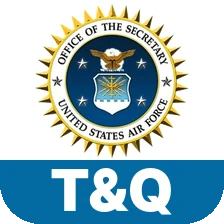
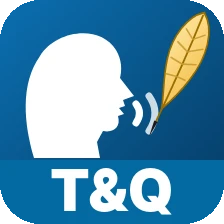
Hub asks for a password only when needed; Tongue and Quill card picture
The sign-in box no longer opens by itself when the hub loads; the header's
Sign in link opens it, and locked tools still ask for their own password.
AFH 33-337 gets a talking head and a feather quill.

Claude-Session: https://claude.ai/code/session_01XmGzYsRCLsrXMkxphjLpz1

diff --git a/index.html b/index.html
@@ -252,7 +252,9 @@ document.getElementById("siSkip").addEventListener("click", () => { SI.skip(); d
 dlg.addEventListener("cancel", () => { if (!SI.role()) SI.skip(); render(); });   // Esc counts as Skip
 
 render();
-SI.resume().then(role => { if (role) render(); else openSignIn(); });
+// No password box on open (Captain Russell, 22 Nov 2026): ask only when it is needed. Locked tools ask
+// for their own password when opened; the Sign in link in the header opens this box for cadre.
+SI.resume().then(role => { if (role) render(); });
 </script>
 </body>
 </html>

diff --git a/tools/doc-card-art.py b/tools/doc-card-art.py
@@ -22,6 +22,8 @@ Kinds:
         every DAF publication), full size on the tile.
   form  : a drawn form sheet, for forms we only link to on e-Publishing (the
         cloud session can't download them to crop).
+  full  (path): a drawn 224 px picture filling the tile (render the SVG in
+        tools/art-src/ to a PNG of the same name with a browser after editing it).
   image (path, scale): any picture, e.g. the AFGSC shield for the 90th Missile
         Wing video, or the Det 250 patch for the locked detachment plans.
 Each may add a label: the band text at the bottom.
@@ -67,7 +69,9 @@ ART = {
     'ext-dafi90-6001':   ('external', 'seal', 'secaf', '6001'),
     'ext-dafi51-508':    ('external', 'seal', 'secaf', '51-508'),
     'ext-dafi36-2614':   ('external', 'seal', 'secaf', '2614'),
-    'ext-afh33-337':     ('external', 'seal', 'secaf', 'T&Q'),
+    # The Tongue and Quill: a talking head and a feather quill (Captain Russell, 22 Nov 2026),
+    # drawn in tools/art-src/tongue-quill.svg and saved as the .png beside it.
+    'ext-afh33-337':     ('external', 'full', 'tools/art-src/tongue-quill.png', 'T&Q'),
     'ext-daf1206':       ('external', 'form', None, '1206'),
     'ext-af724':         ('external', 'form', None, '724'),
     'ext-daf174':        ('external', 'form', None, '174'),
@@ -144,6 +148,9 @@ def make(key, sec, kind, args, label, tmp, cache):
         else:
             seal = Image.open(OFF + 'coc-secaf.webp').convert('RGBA')
         paste_center(t, seal, (6, 4, S - 6, area[3] - 2))
+    elif kind == 'full':
+        # a drawn 224 px picture that fills the tile; keep its subject above the band
+        t = Image.open(args).convert('RGBA').resize((S, S), Image.LANCZOS)
     elif kind == 'image':
         path, scale = args
         t = tile_bg((24, 26, 34))

diff --git a/CLAUDE.md b/CLAUDE.md
@@ -14,7 +14,7 @@
 ## Repo layout
 | Path | What |
 |---|---|
-| `index.html` | Hub page. Its bar is one link, `<a class="d250-bar d250-bar-hub">` (to the Portfolio), with a "Portfolio" back pill at the top left (to https://captainrussell.github.io/Portfolio/, Captain Russell's portfolio, added Nov 2026) and the Storm HQ home link; tool pages keep the single-link bar. The cards are listed in `data/hub.js` (`D250_HUB.tools`, plain JSON; fields: href, name, tone, icon, section `cadets`, `instructors` or `admin` (`evaluators` still renders but is unused), locked, blurb, ext, art, `role:"cadre"` (cadre only), and `hidden:true` to hide a card without deleting it). Hub sections: Cadet tools, Instructor tools (Spin the Wheel, then the Class Activities card), then Cadre only (the Admin card, shown only to cadre) at the very bottom (Captain Russell, 22 Nov 2026). The hub header is one slim row, the patch and "Storm HQ" with the sign-in status at the right (Captain Russell, 22 Nov 2026: every card on one full-screen desktop, 4 cards per row, blurbs clamped to two lines). The Evaluator tools section was replaced on 22 Nov 2026 (Captain Russell) by one Evaluation Tools card under Cadet tools (`evaluation/`). `locked` is the pill text: "Flight Staff password" (Flight Staff Evaluation); `true` shows "Password". Peer Feedback, Documents and Policy and the ODT Tool show no pill on the hub (ODT since 22 Nov 2026; it still asks for the password when opened) (Captain Russell, Nov 2026); the Documents page itself labels its locked cards "Cadet password". Each card's icon is a picture drawn from the tool's own art, `shared/card-art/<tool folder>.webp` (listed in `ART`; Captain Russell, Nov 2026: icons must look like the tool, like the patch and Steam icon on the Portfolio. PFRA Calculator = the tool's own 2 mile run pictogram (`pfra/src/icons.js`) in white on a red tile with "PFRA" under it (Captain Russell, 22 Nov 2026; it replaced the calculator), Ribbon rack = a real rack from the tool, Documents = The Storm Standard cover, Spin the Wheel = the `D250Wheel`, Practicum = the IG sprite, ODT Tool = a white van on a road heading to a red map pin (Captain Russell, 17 Nov 2026), cadet photos from `org-chart/photos`). 56 px tiles saved at 224 px, rounded 14 px, transparent corners; the SVG `icon` is the fallback. Each tool's header icon (`<span class="d250-head-icon art">`) shows the same picture, so card and tool match (Captain Russell, Nov 2026). Cards show only icon, name and blurb (no tags, no "Open" arrow, no section subtitles). Sign-in (Captain Russell, 15 Nov 2026): on opening the hub a dialog asks for the cadet or cadre password (one box, either works) or Skip for now; `shared/signin.js` (`D250SignIn`) checks the password by opening files it already locks (cadet: `documents/restricted/vault.json` check; cadre: `admin/vault.json`), so no password is in the repo, and seeds the session keys the locked tools already read (cadet: `d250-docs-pass`; cadre: `d250-admin-pass`, `d250-cadre-pass`, plus `locks.docs`/`locks.fse` from the admin vault as `d250-docs-pass`/`d250-gmc-pass`). Role in sessionStorage `d250-role` (`cadet`, `cadre`, `skip`); "Keep me signed in" (ticked by default, Captain Russell 15 Nov 2026) keeps the password in localStorage `d250-signin-v1`. "Signed in as ... / Sign out" sits at the right of the header row; lock pills turn into a green open padlock with no text once open (`OPENS` in `index.html`; Captain Russell, 22 Nov 2026: no "Unlocked" text on the hub). Cards with `role:"cadre"` show only to cadre; the Admin card (section `admin`, "Cadre only", listed last) replaced the Cadre Dashboard card. Outside links use `ext:true` (new tab) and `art:` to name their card art: the Cadet SharePoint card (Cadet tools, after Documents, Nov 2026) links to the ISU AFROTC SharePoint home page and uses `shared/card-art/sharepoint.webp`, the Det 250 patch on a teal tile (Captain Russell). |
+| `index.html` | Hub page. Its bar is one link, `<a class="d250-bar d250-bar-hub">` (to the Portfolio), with a "Portfolio" back pill at the top left (to https://captainrussell.github.io/Portfolio/, Captain Russell's portfolio, added Nov 2026) and the Storm HQ home link; tool pages keep the single-link bar. The cards are listed in `data/hub.js` (`D250_HUB.tools`, plain JSON; fields: href, name, tone, icon, section `cadets`, `instructors` or `admin` (`evaluators` still renders but is unused), locked, blurb, ext, art, `role:"cadre"` (cadre only), and `hidden:true` to hide a card without deleting it). Hub sections: Cadet tools, Instructor tools (Spin the Wheel, then the Class Activities card), then Cadre only (the Admin card, shown only to cadre) at the very bottom (Captain Russell, 22 Nov 2026). The hub header is one slim row, the patch and "Storm HQ" with the sign-in status at the right (Captain Russell, 22 Nov 2026: every card on one full-screen desktop, 4 cards per row, blurbs clamped to two lines). The Evaluator tools section was replaced on 22 Nov 2026 (Captain Russell) by one Evaluation Tools card under Cadet tools (`evaluation/`). `locked` is the pill text: "Flight Staff password" (Flight Staff Evaluation); `true` shows "Password". Peer Feedback, Documents and Policy and the ODT Tool show no pill on the hub (ODT since 22 Nov 2026; it still asks for the password when opened) (Captain Russell, Nov 2026); the Documents page itself labels its locked cards "Cadet password". Each card's icon is a picture drawn from the tool's own art, `shared/card-art/<tool folder>.webp` (listed in `ART`; Captain Russell, Nov 2026: icons must look like the tool, like the patch and Steam icon on the Portfolio. PFRA Calculator = the tool's own 2 mile run pictogram (`pfra/src/icons.js`) in white on a red tile with "PFRA" under it (Captain Russell, 22 Nov 2026; it replaced the calculator), Ribbon rack = a real rack from the tool, Documents = The Storm Standard cover, Spin the Wheel = the `D250Wheel`, Practicum = the IG sprite, ODT Tool = a white van on a road heading to a red map pin (Captain Russell, 17 Nov 2026), cadet photos from `org-chart/photos`). 56 px tiles saved at 224 px, rounded 14 px, transparent corners; the SVG `icon` is the fallback. Each tool's header icon (`<span class="d250-head-icon art">`) shows the same picture, so card and tool match (Captain Russell, Nov 2026). Cards show only icon, name and blurb (no tags, no "Open" arrow, no section subtitles). Sign-in (Captain Russell, 15 Nov 2026): the Sign in link at the right of the header opens a dialog that asks for the cadet or cadre password (one box, either works) or Skip for now (since 22 Nov 2026 it no longer opens by itself when the hub loads; Captain Russell: ask only when needed, and the locked tools ask for their own password); `shared/signin.js` (`D250SignIn`) checks the password by opening files it already locks (cadet: `documents/restricted/vault.json` check; cadre: `admin/vault.json`), so no password is in the repo, and seeds the session keys the locked tools already read (cadet: `d250-docs-pass`; cadre: `d250-admin-pass`, `d250-cadre-pass`, plus `locks.docs`/`locks.fse` from the admin vault as `d250-docs-pass`/`d250-gmc-pass`). Role in sessionStorage `d250-role` (`cadet`, `cadre`, `skip`); "Keep me signed in" (ticked by default, Captain Russell 15 Nov 2026) keeps the password in localStorage `d250-signin-v1`. "Signed in as ... / Sign out" sits at the right of the header row; lock pills turn into a green open padlock with no text once open (`OPENS` in `index.html`; Captain Russell, 22 Nov 2026: no "Unlocked" text on the hub). Cards with `role:"cadre"` show only to cadre; the Admin card (section `admin`, "Cadre only", listed last) replaced the Cadre Dashboard card. Outside links use `ext:true` (new tab) and `art:` to name their card art: the Cadet SharePoint card (Cadet tools, after Documents, Nov 2026) links to the ISU AFROTC SharePoint home page and uses `shared/card-art/sharepoint.webp`, the Det 250 patch on a teal tile (Captain Russell). |
 | `admin-hub/` | Admin (Nov 2026, Captain Russell): the one cadre card on the hub. Since 22 Nov 2026 it is a how-to guide (Captain Russell: after his PCS the cadre point of contact will direct changes through Claude, not through the editor; no Results cards since 22 Nov 2026, they are on Evaluation Tools): "Change Storm HQ with an AI assistant" (tool-neutral since 22 Nov 2026, Captain Russell: Claude is only the example, other LLM tools work too; set up once, ask, review and merge, undo), "What changes, and what to ask" (one fold per tool with how often it changes, Each semester / Each ODT / As needed / Rarely, and ready prompts with Copy buttons, `JOBS`; `[brackets]` are blanks), Good to know (`TIPS`), Before the handoff (`HANDOFF`), Links (Open an AI assistant, GitHub source, Pull requests, Apps Scripts, ADMIN-GUIDE.md; owner/repo read from the page address) and one small backup link to the old Cadre Admin editor (`admin/`, kept as a backup by Captain Russell's choice). Keep it in step with `ADMIN-GUIDE.md` and the "Semester jobs" section below. Asks for the cadre password itself unless the tab is signed in as cadre. Card art `shared/card-art/admin-hub.webp`, also its header icon. The Cadre Dashboard and Cadre Admin bars say "Admin" and link back here. |
 | `activities/` | Class Activities (Captain Russell, 22 Nov 2026): one hub card under Instructor tools, a hub-style page with three cards: Make the Call, Battle Buddy Recon and Practicum Adventure (their hub entries are kept with `hidden:true`; Spin the Wheel keeps its own hub card). Card art `shared/card-art/activities.webp` (the three tool tiles on a teal tile). The three tools' bars say "Class Activities" and link back here. |
 | `evaluation/` | Evaluation Tools (Captain Russell, 22 Nov 2026): one hub card under Cadet tools, a hub-style page with three cards: Peer Feedback, Flight Staff Evaluation ("Flight Staff password" pill) and Cadre Dashboard ("Cadre password" pill); pills say Unlocked from the hub sign-in. Card art `shared/card-art/evaluation.webp` (the three tool tiles on a purple tile). The Peer Feedback and Cadre Dashboard bars say "Evaluation Tools" and link back here (the encrypted Flight Staff Evaluation keeps "All tools"). |
@@ -39,7 +39,7 @@
 | `shared/cadet-groups.js` | Preset roster groups (AS 100's, AS 200's, AS 250's, AS 500's, AS 300's, AS 400's, Graybeards) and `D250Cadets` ("last, first" -> photo key, class), built in the browser from `data/roster.js` (load `../data/roster.js` first). No build step. |
 | `shared/doc-refs.js` | `D250Refs`: the one way a tool cites a regulation, form or publication (Nov 2026, Captain Russell: Documents and Policy is the single source of truth). Load `../data/documents.js`, `../documents/library.js`, then `../shared/doc-refs.js`, then `D250Refs.mount(el, {from:"<tool folder>", items:[{id, note, page}]})` renders hub-style reference cards. Hosted PDFs open in `documents/view/?id=<id>&from=<tool>&page=<n>`, whose back button returns to the exact spot in the tool (saved on click in sessionStorage `d250-docs-back-<tool>`); e-Publishing items open in a new tab. `D250Refs.href()` / `D250Refs.view()` give inline links (the Org Chart's drawer citations use them, OPLAN citations ask for the password). Used by the PFRA Calculator, Ribbon Rack and Org Chart; add new tools to `FROM` in `documents/view/index.html`. Never copy a regulation PDF into a tool folder; add it to `library.js`. |
 | `shared/class-roster.js` | `D250Class.load()/save()`: one saved class roster (`d250-class-roster-v1`) and class name (`d250-class-name-v1`, `D250Class.name()`) shared by the instructor tools. Practicum Adventure uses the class name as its course unless its Game settings set one. |
-| `documents/` | Documents and Policy (cadet tool, Nov 2026): one-stop list of every regulation, notice and form cited by the Storm HQ tools, The Storm Standard, the OPLAN and the Policy Packet (sections and cards in `data/documents.js` (`D250_DOCS_DATA`), exposed as `D250_DOC_SECTIONS` and `D250_DOCS` by `documents/library.js`, which keeps the card icons; every page that loads `library.js` loads `data/documents.js` first; every document is a hub-style one-click card. Categories: Detachment plans, Weekly OPORDs (both locked), AFROTC, Fitness (PFRA Calculator, AF Forms 4446/4446A, PFRA scoring charts, HAMR tally, HAMR audio (`"download":true` makes a card a download), the AFGSC PFRA verbal instructions video and DAFMAN 36-2905; its AFROTC Sup sits under AFROTC publications, Captain Russell 22 Nov 2026) and External links (e-Publishing pubs and forms, new tab), per Captain Russell Nov 2026. Every card has a picture (`"art":"art/<id>.webp"`, files in `documents/art/`, made by `python3 tools/doc-card-art.py`, whose `ART` table lists each one; Captain Russell, 22 Nov 2026: pictures must read at the 36 px row size, zoomed in like The Storm Standard cover): a short label band at the bottom in the section's color (VOL 1, 2903, 4446, AFH 1, OPLAN, ...) under the AFROTC seal (AFROTC publications), the Secretary of the Air Force seal (DAF publications), a zoomed crop of the form or chart itself (4446, 4446A, HAMR tally; the scoring charts have no band), a drawn form sheet (e-Publishing forms, which the cloud session can't download), the AFGSC shield (90th MW verbal instructions video), a waveform (HAMR audio) or the Det 250 patch (the locked plans and the Weekly OPORDs row, `PLAN_ART` in `documents/index.html`). `D250Refs` shows art at 56 px and resolves it under `documents/`. The SVG `icon` is the fallback when a card has no art (`icon` key into `D250_DOC_ICONS` in `library.js`, e.g. uniform for dress and appearance, medal for the award nomination; Captain Russell, Nov 2026), and links to Storm HQ tools (`tool:true`, e.g. the PFRA Calculator) get a gold card with a "Storm HQ tool" pill so they stand apart from documents. Every internal PDF (`src`) opens in `documents/view/?id=<id>` with the back button to its category; `dl` sets a different download file (the fillable 4446/4446A; the viewer shows the `-flat` copy). AFROTCI 36-2011 V1 and V2 are hosted in `documents/references/`, V3, the AFROTC supplements and the fitness files are shared from `pfra/references/` and `ribbon-rack/references/`. NOTACCs and the law section were removed at Captain Russell's request, Nov 2026). Layout (redesigned 22 Nov 2026, Captain Russell: find any document without scrolling): one slim top row with The Storm Standard ("Read") and the unlock box, then one column per category side by side (4 across from 1100 px, 2 below, 1 on phones), each document a short row (icon, number, title; the description is the row tooltip; Storm HQ tools get a gold row with a "Tool" pill, outside links an arrow, downloads a download icon); no search bar. On phones the categories start folded and open on tap (state in `d250-docs-sections-v1`); on desktop they are always open. `#<section>` links flash that column. The Weekly OPORDs have their own page, `documents/opords/` (a section with `"page"` in `data/documents.js` shows on the main page as one row under the section before it; old `documents/#opords` links redirect there; the viewer's back button for an OPORD returns there). Shared styles are in `documents/docs.css`; `documents/vault.js` (`D250DocVault.mount(el, {root, what, onChange})`) is the one unlock box on both pages (it, the document viewer and the ODT Tool also take the admin password: `D250SignIn.docsPass` in `shared/signin.js` turns it into the cadet password saved as `locks.docs` in `admin/vault.json`; Captain Russell, 22 Nov 2026) (unlocks every protected row or tile with a staggered animation; clicking a locked one makes the box glow) Locked and unlocked must look clearly different (Captain Russell, 22 Nov 2026): a solid red chip with a closed padlock, then a solid green chip with the shackle raised open (`.lk`, `.i-lk`/`.i-un`); the hub and Evaluation Tools lock pills use the same red/green and padlock shapes. The Storm Standard online view (`documents/storm-standard/index.html`, hand written, Nov 2026) is a highlights view, not the full text (Captain Russell: show the important sections, mostly with visuals): chapters in the side nav, and ONE topic on screen at a time with dots, previous/next and arrow keys (`#<chapter>/<topic>` links, `CH` array in the page; old `#chapter-N` and `#p-N` links still resolve). Each topic links to its page in the PDF. Graphics (covers, patches, cadet and military rank charts, AFROTC uniforms, the Prop and Wings monument, the aircraft and space inventory, AFSC badges) are pulled from the PDF by `python3 tools/storm-standard-art.py documents/storm-standard/The_Storm_Standard.pdf documents/storm-standard/art` into `art/*.webp` plus `art/data.js` (inventory, commands, badges). The PDF's own seals and badges are too low resolution, so official artwork lives in `art/official/` (never written by the script): service and department seals, the President, SecWar, SecAF, CSAF and CSO seals plus rank insignia for the chain of command, combatant command seals, MAJCOM shields, Space Force field command emblems and the clean Prop and Wings (mostly supplied by Captain Russell, Nov 2026), and the CTA, Arnold Air Society and Pershing Rifles badges cut from DAFI 36-2903 AFROTC Sup Figure 9.1. The Prop and Wings plaque was removed at his request. Also removed at his request (Nov 2026): the date and name heavy topics (Pioneers from the Storm, History of AFROTC, Air and Space Force milestones) and the blurry full insignia chart; MAJCOM cards use the one-line missions in `MAJCOM_SHORT`, not the PDF's full statements. Edition and authority sits on the closing slide, after the back cover; the header icon is the cover art (`art/official/cover-icon.webp`). Topics without PDF art use Captain Russell's photos and symbols in `art/official/` (Armory, open ranks, salute, Hap Arnold wings, Air Force Symbol, combatant command map) or drawn icons and diagrams in the page (`ICON`/`icard`, `DIAG` customs diagrams, the order-of-precedence pyramid). Sharp aircraft photos supplied by Captain Russell (Nov 2026) are in `art/official/aircraft/` under the PDF crop file names and listed in `INV_PHOTOS`, along with the Space Force systems (C-40 is a USAF C-40B). Keep the page to what the PDF says (MOOSEMUSS was removed for that reason; the Space Force values row stays at his request). Page numbers in `CH` and the script are PDF pages (cover = 1; printed page = PDF page minus 1); check them when a new edition comes out. `documents/storm-standard/The_Storm_Standard.pdf` is the full First Edition (Sep 2026). `documents/restricted/` holds the Fall 2026 OPLAN, Policy Packet, Cadre Additional Duties Roster and weekly OPORDs ENCRYPTED (`*.bin` + `vault.json`); each card opens `documents/view/?id=<id>`, which asks for the password once per tab, decrypts in the browser and renders the pages with the vendored PDF.js 3.11.174 (`documents/vendor/pdfjs/`), with a back button, previous/next and download (default set by Captain Russell, Nov 2026; never write it in the repo). |
+| `documents/` | Documents and Policy (cadet tool, Nov 2026): one-stop list of every regulation, notice and form cited by the Storm HQ tools, The Storm Standard, the OPLAN and the Policy Packet (sections and cards in `data/documents.js` (`D250_DOCS_DATA`), exposed as `D250_DOC_SECTIONS` and `D250_DOCS` by `documents/library.js`, which keeps the card icons; every page that loads `library.js` loads `data/documents.js` first; every document is a hub-style one-click card. Categories: Detachment plans, Weekly OPORDs (both locked), AFROTC, Fitness (PFRA Calculator, AF Forms 4446/4446A, PFRA scoring charts, HAMR tally, HAMR audio (`"download":true` makes a card a download), the AFGSC PFRA verbal instructions video and DAFMAN 36-2905; its AFROTC Sup sits under AFROTC publications, Captain Russell 22 Nov 2026) and External links (e-Publishing pubs and forms, new tab), per Captain Russell Nov 2026. Every card has a picture (`"art":"art/<id>.webp"`, files in `documents/art/`, made by `python3 tools/doc-card-art.py`, whose `ART` table lists each one; Captain Russell, 22 Nov 2026: pictures must read at the 36 px row size, zoomed in like The Storm Standard cover): a short label band at the bottom in the section's color (VOL 1, 2903, 4446, AFH 1, OPLAN, ...) under the AFROTC seal (AFROTC publications), the Secretary of the Air Force seal (DAF publications), a zoomed crop of the form or chart itself (4446, 4446A, HAMR tally; the scoring charts have no band), a talking head and feather quill for AFH 33-337, The Tongue and Quill (`tools/art-src/tongue-quill.svg`, rendered to the `.png` beside it), a drawn form sheet (e-Publishing forms, which the cloud session can't download), the AFGSC shield (90th MW verbal instructions video), a waveform (HAMR audio) or the Det 250 patch (the locked plans and the Weekly OPORDs row, `PLAN_ART` in `documents/index.html`). `D250Refs` shows art at 56 px and resolves it under `documents/`. The SVG `icon` is the fallback when a card has no art (`icon` key into `D250_DOC_ICONS` in `library.js`, e.g. uniform for dress and appearance, medal for the award nomination; Captain Russell, Nov 2026), and links to Storm HQ tools (`tool:true`, e.g. the PFRA Calculator) get a gold card with a "Storm HQ tool" pill so they stand apart from documents. Every internal PDF (`src`) opens in `documents/view/?id=<id>` with the back button to its category; `dl` sets a different download file (the fillable 4446/4446A; the viewer shows the `-flat` copy). AFROTCI 36-2011 V1 and V2 are hosted in `documents/references/`, V3, the AFROTC supplements and the fitness files are shared from `pfra/references/` and `ribbon-rack/references/`. NOTACCs and the law section were removed at Captain Russell's request, Nov 2026). Layout (redesigned 22 Nov 2026, Captain Russell: find any document without scrolling): one slim top row with The Storm Standard ("Read") and the unlock box, then one column per category side by side (4 across from 1100 px, 2 below, 1 on phones), each document a short row (icon, number, title; the description is the row tooltip; Storm HQ tools get a gold row with a "Tool" pill, outside links an arrow, downloads a download icon); no search bar. On phones the categories start folded and open on tap (state in `d250-docs-sections-v1`); on desktop they are always open. `#<section>` links flash that column. The Weekly OPORDs have their own page, `documents/opords/` (a section with `"page"` in `data/documents.js` shows on the main page as one row under the section before it; old `documents/#opords` links redirect there; the viewer's back button for an OPORD returns there). Shared styles are in `documents/docs.css`; `documents/vault.js` (`D250DocVault.mount(el, {root, what, onChange})`) is the one unlock box on both pages (it, the document viewer and the ODT Tool also take the admin password: `D250SignIn.docsPass` in `shared/signin.js` turns it into the cadet password saved as `locks.docs` in `admin/vault.json`; Captain Russell, 22 Nov 2026) (unlocks every protected row or tile with a staggered animation; clicking a locked one makes the box glow) Locked and unlocked must look clearly different (Captain Russell, 22 Nov 2026): a solid red chip with a closed padlock, then a solid green chip with the shackle raised open (`.lk`, `.i-lk`/`.i-un`); the hub and Evaluation Tools lock pills use the same red/green and padlock shapes. The Storm Standard online view (`documents/storm-standard/index.html`, hand written, Nov 2026) is a highlights view, not the full text (Captain Russell: show the important sections, mostly with visuals): chapters in the side nav, and ONE topic on screen at a time with dots, previous/next and arrow keys (`#<chapter>/<topic>` links, `CH` array in the page; old `#chapter-N` and `#p-N` links still resolve). Each topic links to its page in the PDF. Graphics (covers, patches, cadet and military rank charts, AFROTC uniforms, the Prop and Wings monument, the aircraft and space inventory, AFSC badges) are pulled from the PDF by `python3 tools/storm-standard-art.py documents/storm-standard/The_Storm_Standard.pdf documents/storm-standard/art` into `art/*.webp` plus `art/data.js` (inventory, commands, badges). The PDF's own seals and badges are too low resolution, so official artwork lives in `art/official/` (never written by the script): service and department seals, the President, SecWar, SecAF, CSAF and CSO seals plus rank insignia for the chain of command, combatant command seals, MAJCOM shields, Space Force field command emblems and the clean Prop and Wings (mostly supplied by Captain Russell, Nov 2026), and the CTA, Arnold Air Society and Pershing Rifles badges cut from DAFI 36-2903 AFROTC Sup Figure 9.1. The Prop and Wings plaque was removed at his request. Also removed at his request (Nov 2026): the date and name heavy topics (Pioneers from the Storm, History of AFROTC, Air and Space Force milestones) and the blurry full insignia chart; MAJCOM cards use the one-line missions in `MAJCOM_SHORT`, not the PDF's full statements. Edition and authority sits on the closing slide, after the back cover; the header icon is the cover art (`art/official/cover-icon.webp`). Topics without PDF art use Captain Russell's photos and symbols in `art/official/` (Armory, open ranks, salute, Hap Arnold wings, Air Force Symbol, combatant command map) or drawn icons and diagrams in the page (`ICON`/`icard`, `DIAG` customs diagrams, the order-of-precedence pyramid). Sharp aircraft photos supplied by Captain Russell (Nov 2026) are in `art/official/aircraft/` under the PDF crop file names and listed in `INV_PHOTOS`, along with the Space Force systems (C-40 is a USAF C-40B). Keep the page to what the PDF says (MOOSEMUSS was removed for that reason; the Space Force values row stays at his request). Page numbers in `CH` and the script are PDF pages (cover = 1; printed page = PDF page minus 1); check them when a new edition comes out. `documents/storm-standard/The_Storm_Standard.pdf` is the full First Edition (Sep 2026). `documents/restricted/` holds the Fall 2026 OPLAN, Policy Packet, Cadre Additional Duties Roster and weekly OPORDs ENCRYPTED (`*.bin` + `vault.json`); each card opens `documents/view/?id=<id>`, which asks for the password once per tab, decrypts in the browser and renders the pages with the vendored PDF.js 3.11.174 (`documents/vendor/pdfjs/`), with a back button, previous/next and download (default set by Captain Russell, Nov 2026; never write it in the repo). |
 | `tools/encrypt-files.mjs` | Encrypts the restricted PDFs: keep the plain PDFs and a `list.json` OUTSIDE the repo, then `node tools/encrypt-files.mjs <password> <list.json> documents/restricted`. Rebuilds every file (new salt each run), so to add an OPORD or change the password rerun the whole list. `documents/restricted/.gitignore` blocks `*.pdf`. Anyone with the password can download and repost the decrypted files. |
 | `peer-feedback/` | Peer Feedback (cadet tool, Nov 2026, Captain Russell): cadets sign in with a personal 8-character code (`XXXX-XXXX`) that selects them and cannot be changed, then rate EVERY other cadet in their peer group 1 to 5 in four areas: Leadership, Professionalism, Teamwork, Communication (lead, prof, team, comm). Participation was dropped on 4 Nov 2026 because cadre already track attendance (Captain Russell). Each cadet also has an optional comment box (up to 600 characters; added 12 Nov 2026, Captain Russell) that goes to the Ratings tab's Comment column and shows in the Cadre Dashboard's cadet breakdown with the rater's name and in the CSV. No "can't rate", no self rating. Cadets can work in any order: tapping a name jumps to that cadet, Next unfinished skips to the next open one, and the page no longer jumps ahead on its own when a cadet is finished (so there is time to write a comment). `NOT_RATED` in `Code.gs` takes a cadet off everyone's form without touching the roster (they still rate their own group; empty since 19 Nov 2026); the dashboard ignores ratings of them. Peers show in a random order per rater (seeded by the rater key, so it is stable across reloads; Captain Russell, 4 Nov 2026, to avoid last-name bias). Peer groups: POC = AS300 + AS400 + Graybeards, GMC = AS200 + AS250 + AS500, AS100. Due Fri 20 Nov 2026 1700 Central (`DUE` in the page and in the script). Late submissions can be accepted with the same code (`ACCEPT_LATE` in `Code.gs` and in the page; on 20 Nov 2026, turned off again 21 Nov 2026 because Captain Russell does not want feedback after the suspense) and are marked Late everywhere cadre see them: a Late column in the Sheet's Ratings, Submissions and Log tabs, `late` in the results, and a red Late chip on the Cadre Dashboard (Who has submitted, rater check, comments, cadet breakdown) plus Late in the CSV's Submitted own column. The Cadre Dashboard only counts cadets still in `data/roster.js`, so cadets who leave the program drop out of the counts and rankings even before the script is rebuilt. `SUBMIT_URL` in the page is the Peer Feedback Apps Script; empty = "not open yet". One draft per cadet in `d250-peer-feedback-v1`, code in sessionStorage `d250-peer-code`. ONE submission per cadet (Captain Russell, 4 Nov 2026): the script rejects a second submit and the page shows a Submitted screen; to let a cadet redo it (or to clear a test), delete their rows in the Sheet's Submissions and Ratings tabs. |
 | `tools/peer-feedback/Code.gs`, `tools/build-peer-feedback.mjs` | Peer Feedback back end. The script (whoami, submit, cadre `results` read with a token) keeps a separate private Sheet (tabs Ratings, Submissions, Log). `node tools/build-peer-feedback.mjs <folder OUTSIDE the repo>` builds `PeerFeedback.gs` (roster from `data/roster.js` + codes + token + Code.gs), `codes.csv`, `code-slips.html` (credit card size, 10 per Letter page, grouped by flight (FLIGHTS, FLIGHTS_POC and the FLT/CC and FLT/CD seats), each flight on its own pages: org chart photo, name, class, code, the page address and a personal QR code (page link + `#code=<code>`; the page fills the code in, signs in and clears it from the address bar), no title, per Captain Russell; needs `npm i qrcode-generator` with `NODE_PATH` pointing at it), `cadre-token.txt`; rerunning keeps existing codes and the token. The private copies live in the project files folder `peer-feedback/private/`. Never commit codes or the token. After a roster change: rebuild, paste, Deploy > Manage deployments > new version. |
